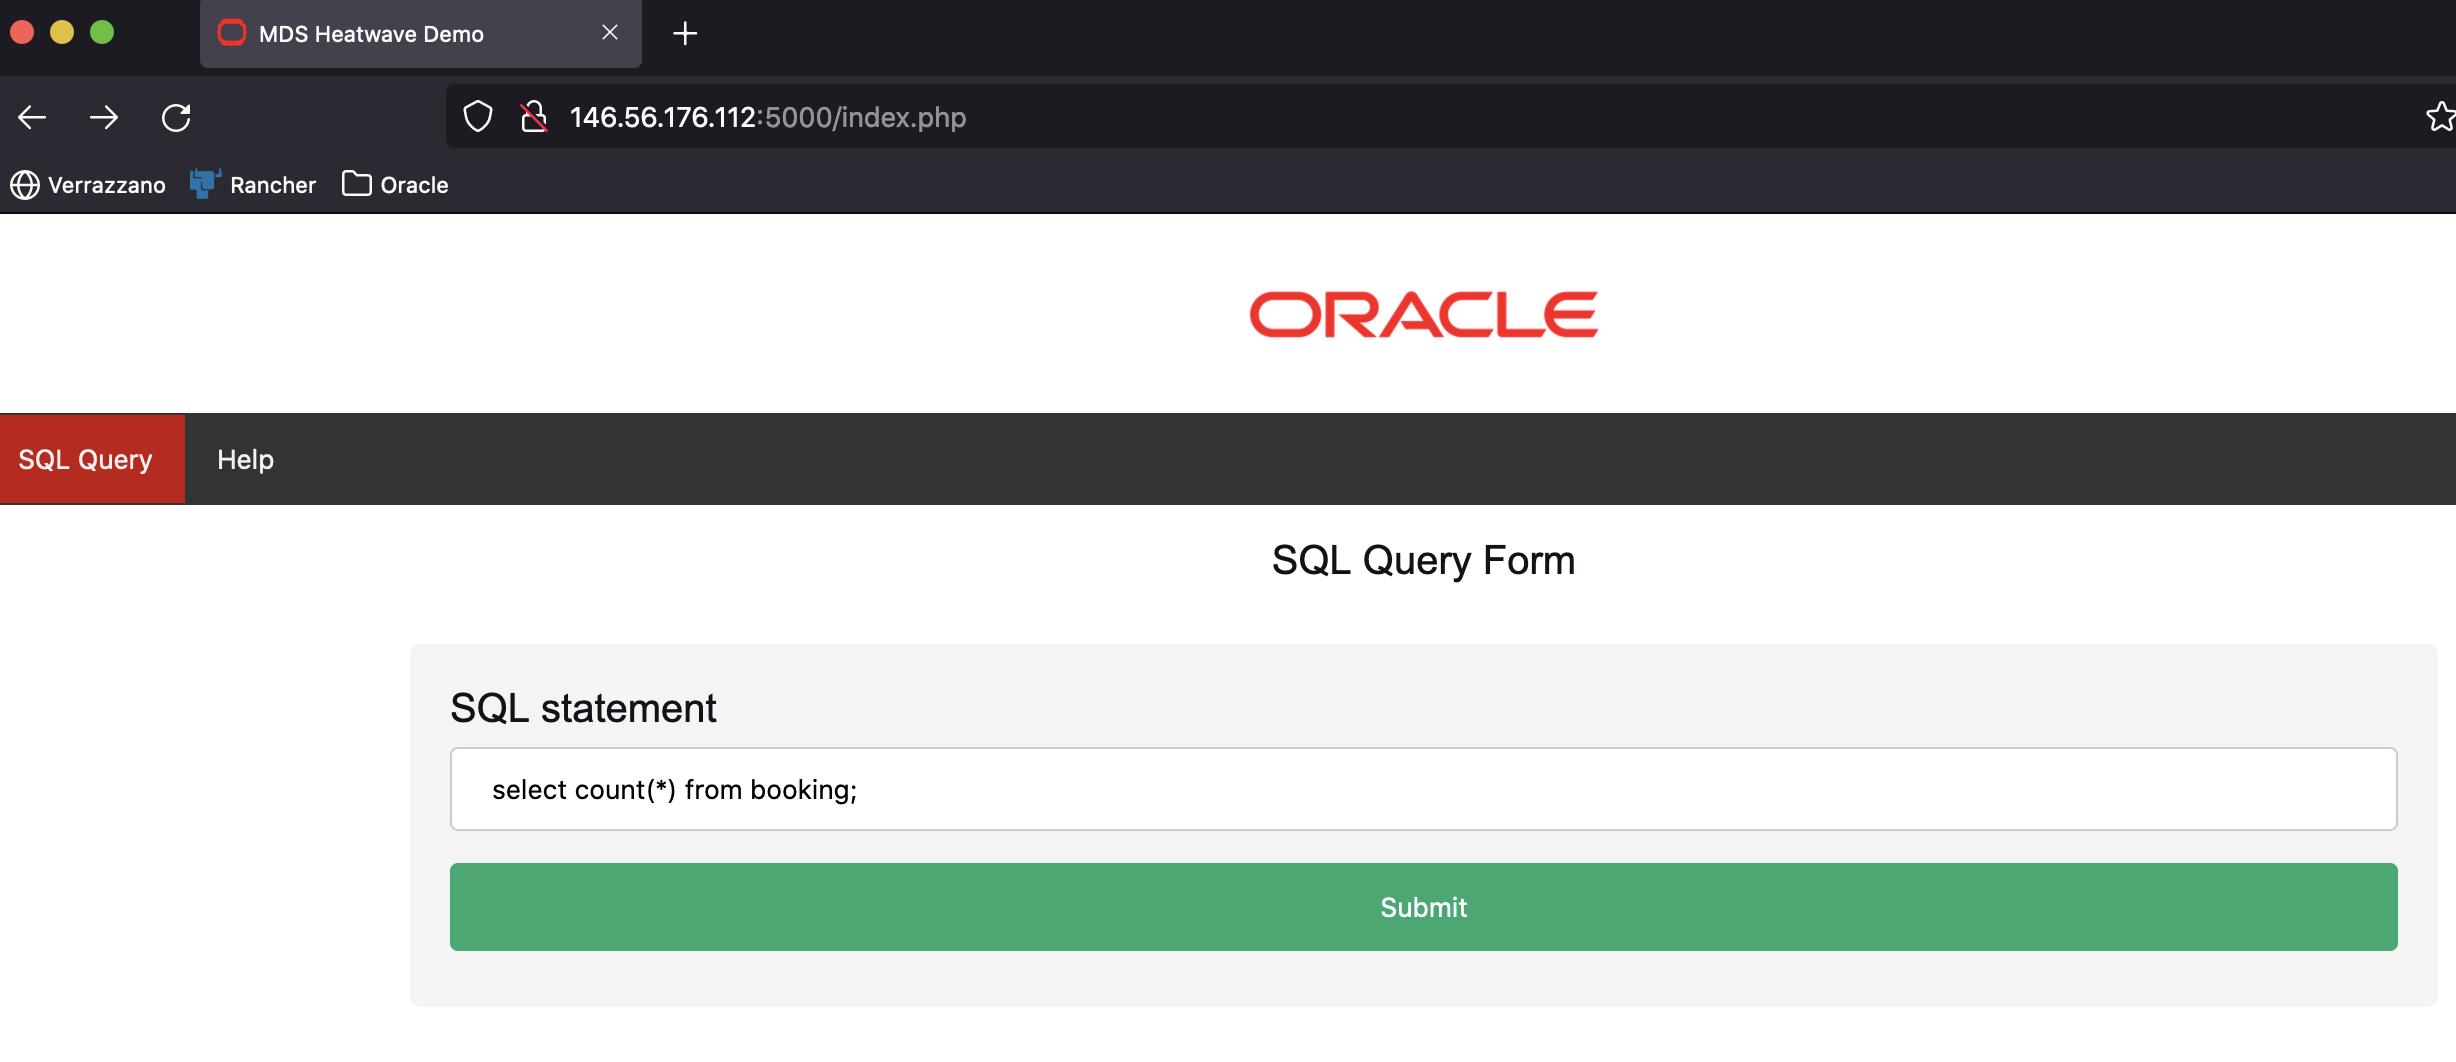
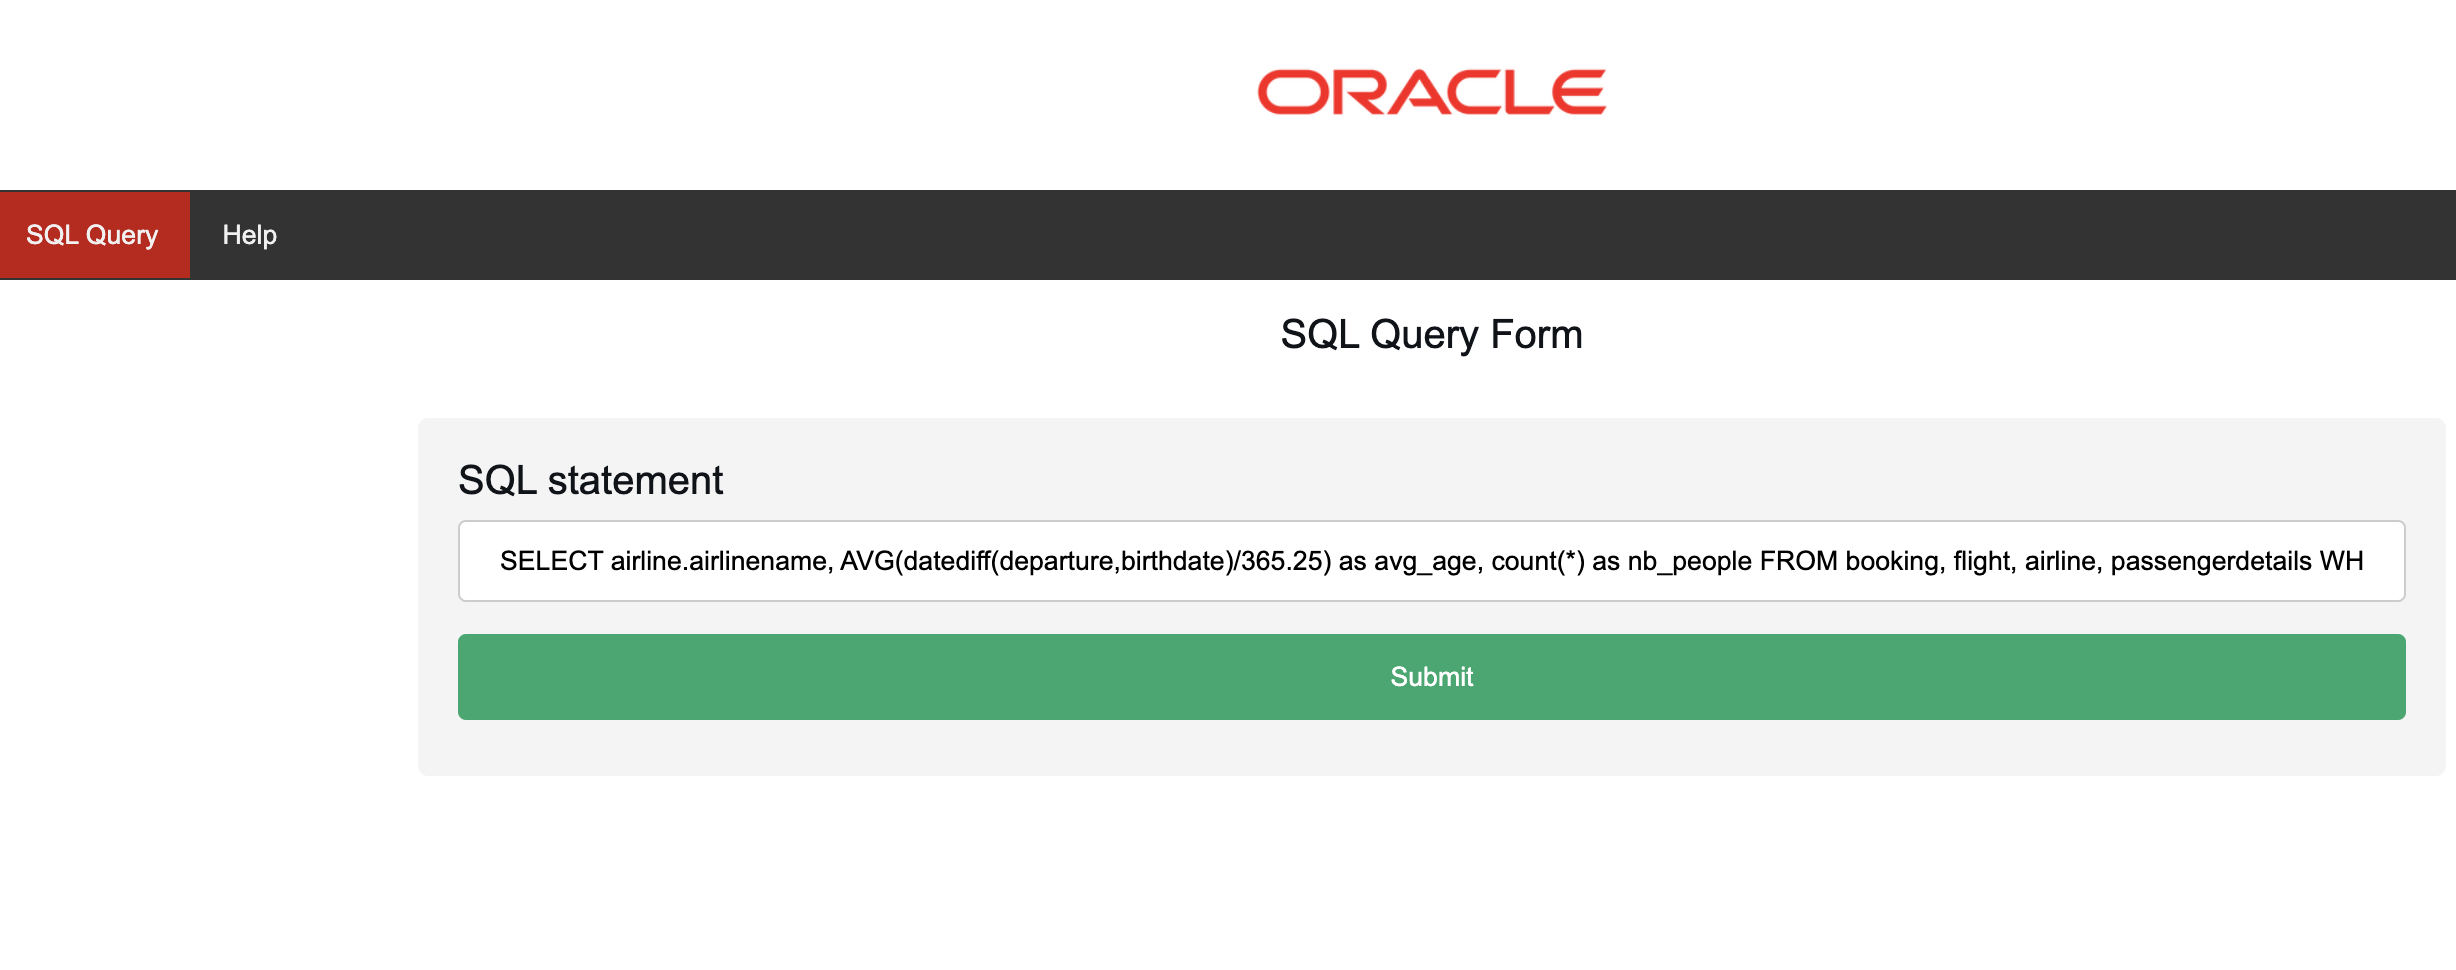
update lab4

diff --git a/lab4/README.md b/lab4/README.md
@@ -34,35 +34,63 @@ Estimated lab time: 15 minutes
 wget https://raw.githubusercontent.com/kuanrcl/mysql-migration/main/lab4/mds_connection.yaml
 ```
 
-2. Using vi or any editor to update the two parameters in **mds_connection.yaml**. Update **“mds-host”** with the private IP address of your MDS instance, and **“mds-password”** with the password you gave when provisioning MDS in Resource Manager.
+2. Update parameter **“mds-host”** in mds_connection.yaml. Replace "\<IP ADDRESS>" below with the IP address of your MDS instance, and execute the script.
+   
+```
+sed -i 's/mds-host: "<TO BE SET>"/mds-host: "<IP ADDRESS>"/g' mds_connection.yaml
+```
 
+For example, if the IP address of your MDS instance is "10.0.30.41", your script should be:
+```
+sed -i 's/mds-host: "<TO BE SET>"/mds-host: "10.0.30.41"/g' mds_connection.yaml
+```
+
+
+3. (Skip this step if you use default password  for MDS) Update parameter **“mds-password”** in mds_connection.yaml. Replace "\<MDS Password>" with the password you gave when provisioning MDS in Resource Manager, and execute the script.
+
+```
+sed -i 's/Oracle#123/<MDS Password>/g' mds_connection.yaml
+```
+
+For example, if your new password is "MySQL#12345", your script should be:
+
+```
+sed -i 's/Oracle#123/MySQL#12345/g' mds_connection.yaml
+```
+
+4. Print your mds_connection.yaml file and verify it has the correct IP address and password for MDS.
+
+```
+cat mds_connection.yaml
+```
 ![Update MDS Connection](images/mds_connection.png)
 
-3. Create Kubernetes configmap and secret to store MDS connection metadata.
+
+5. Create Kubernetes configmap and secret to store MDS connection metadata.
 ```
 kubectl apply -f  mds_connection.yaml
 ```
 ![Apply MDS Connection](images/apply_mds_connection.png)
 
-4. Download yaml deployment file [deploy_webapp.yaml](deploy_webapp.yaml).
+6. Download yaml deployment file [deploy_webapp.yaml](deploy_webapp.yaml).
 
 ```
 wget https://raw.githubusercontent.com/kuanrcl/mysql-migration/main/lab4/deploy_webapp.yaml
 ```
 
-5. Deploy the PHP application into OKE.
+7. Deploy the PHP application into OKE.
 ```
 kubectl apply -f deploy_webapp.yaml
 ```
 ![Apply WebApp](images/apply_webapp.png)
 
-5. Check the status of pods and wait until all pods are up and running
+8. Check the status of pods and wait until all pods are up and running
 ```
 kubectl -n cloudnative-webapp-airportdb-mds get pod
 ```
 ![Get Pod](images/get_pod.png)
 
-6. Get the external IP address of your load balancer. Wait 30 seconds if the external IP address is not ready.
+9. Get the external IP address of your load balancer. Wait 30 seconds if the external IP address is not ready.
 ```
 kubectl -n cloudnative-webapp-airportdb-mds get service --watch
 ```
@@ -79,10 +107,25 @@ Once you have the External IP provisioned, you can execute CTL+C to kill the com
 
 2. Submit a SQL statement to verify that PHP application connects well with MDS.
 ```
-select count(*) from booking;
+SELECT
+airline.airlinename,
+AVG(datediff(departure,birthdate)/365.25) as avg_age,
+count(*) as nb_people
+FROM
+booking, flight, airline, passengerdetails
+WHERE
+booking.flight_id=flight.flight_id AND
+airline.airline_id=flight.airline_id AND
+booking.passenger_id=passengerdetails.passenger_id AND
+country IN ('GERMANY', 'SPAIN', 'GREECE')
+GROUP BY 
+airline.airlinename
+ORDER BY 
+airline.airlinename, avg_age
+LIMIT 10;
 ```
  
-3. You should get the query result and the execution time.
+3. After a while, you should get the query result together with the execution time. Note down the execution time, you will see performance improvement in next lab after HeatWave is enabled.
 
 ![Query Result](images/query_result.png)
 
